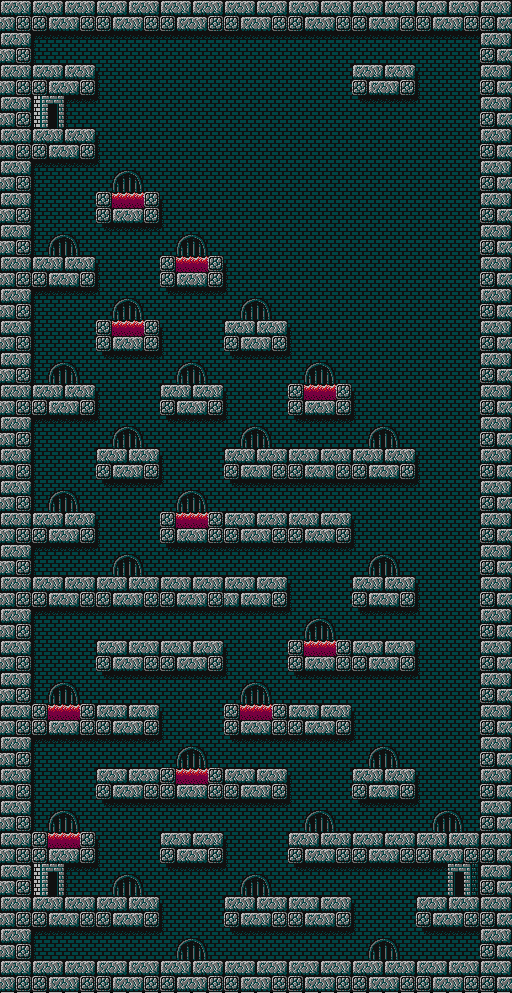
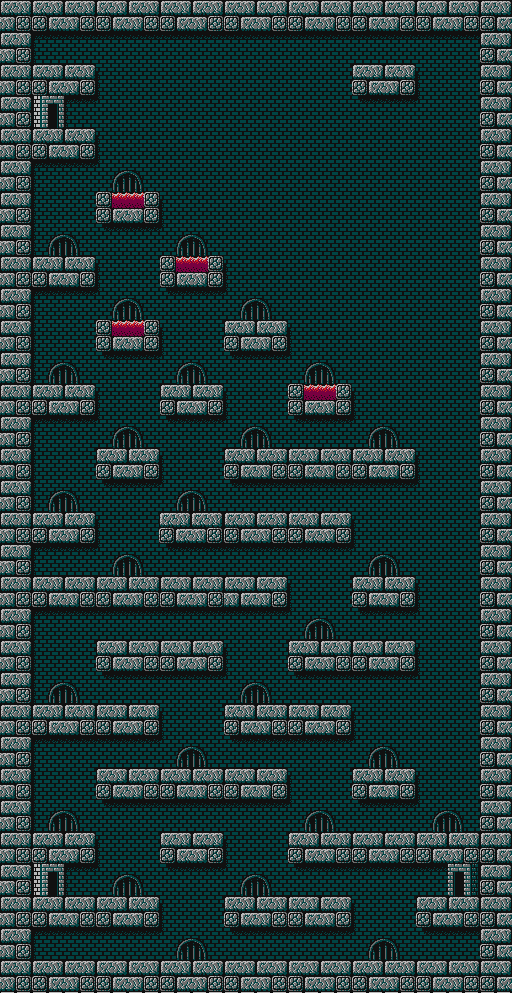
update image & fire brick

diff --git a/Game/PlayScene.cpp b/Game/PlayScene.cpp
@@ -39,7 +39,7 @@ PlayScene::PlayScene() : Scene()
 	keyHandler = new PlayScenceKeyHandler(this);
 	typeSophia = 1;
 	LoadBaseObjects();
-	ChooseMap(STAGE_1);
+	ChooseMap(STAGE_1*3);
 }
 
 void PlayScene::LoadBaseObjects()
